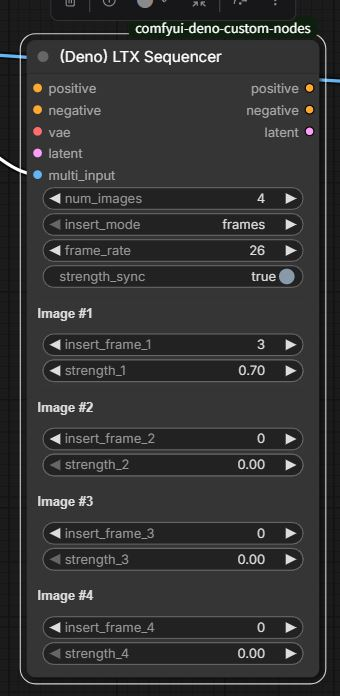
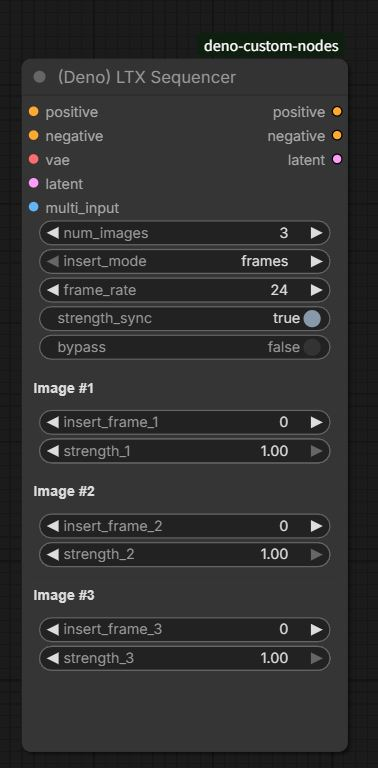
docs: use verified real node screenshots [skip ci]

Changed region(s): [[0.0, 0.0, 1.0, 0.9957]]

diff --git a/README.md b/README.md
@@ -52,7 +52,7 @@ LTX guide sequencer tuned for multi-image workflows.
 
 Credit: Inspired by **WhatDreamsCost**'s LTX workflow approach, with Deno-side adjustments focused on day-to-day usability.
 
-![Deno LTX Sequencer](docs/images/ltx-sequencer.svg)
+![Deno LTX Sequencer](docs/images/ltx-sequencer.jpg)
 
 Main features:
 
@@ -66,7 +66,7 @@ Main features:
 
 One compact loader for the common LTX 2.3 model-loading patterns.
 
-![Deno LTX Model Loader](docs/images/ltx-model-loader.svg)
+![Deno LTX Model Loader](docs/images/ltx-model-loader.jpg)
 
 Main features:
 
@@ -81,7 +81,7 @@ Main features:
 
 Preset-based setup helper for recommended model file sets. The first built-in preset is the LTX 2.3 8GB VRAM GGUF starter set.
 
-![Deno Easy Model Download Helper](docs/images/ltx-model-downloader.svg)
+![Deno Easy Model Download Helper](docs/images/easy-model-download-helper.png)
 
 Main features:
 
@@ -95,7 +95,7 @@ Main features:
 
 Power-LoRA-style multi LoRA loader for LTX workflows.
 
-![Deno LTX Multi LoRA Loader](docs/images/ltx-multi-lora-loader.svg)
+![Deno LTX Multi LoRA Loader](docs/images/ltx-multi-lora-loader.png)
 
 Main features:
 
@@ -109,7 +109,7 @@ Main features:
 
 Prompt helper that combines LTX prompt encoding, optional negative prompt handling, built-in LTX conditioning, and dialogue-length planning.
 
-![Deno LTX Prompt Guide](docs/images/ltx-prompt-guide.svg)
+![Deno LTX Prompt Guide](docs/images/ltx-prompt-guide.png)
 
 Main features:
 
